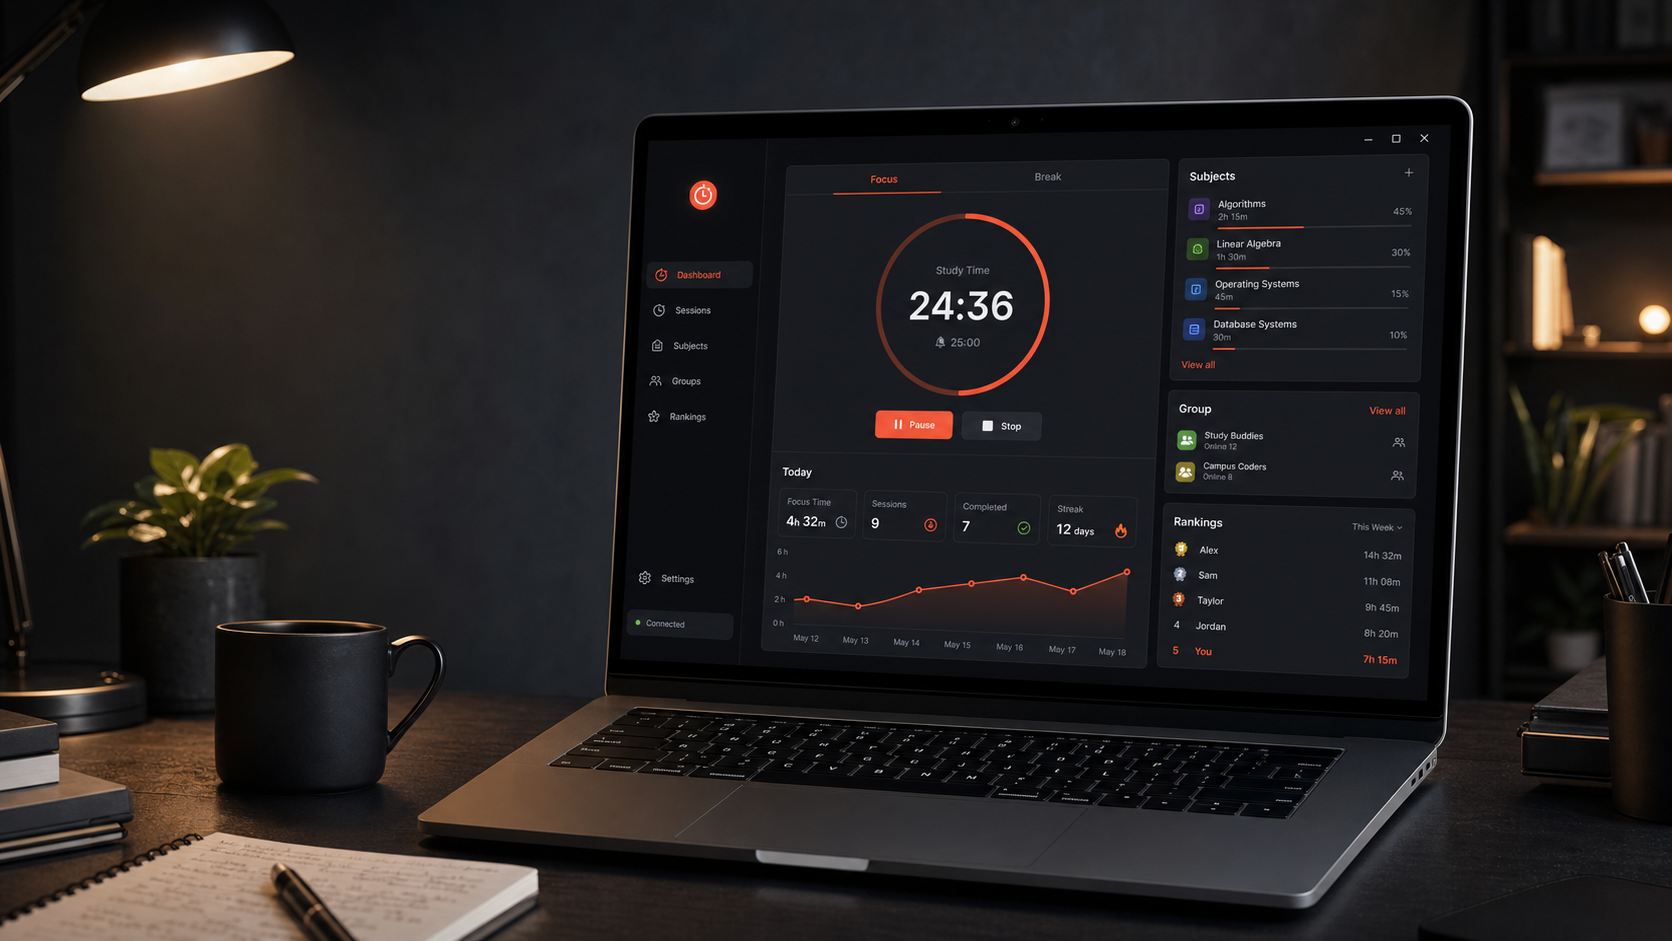
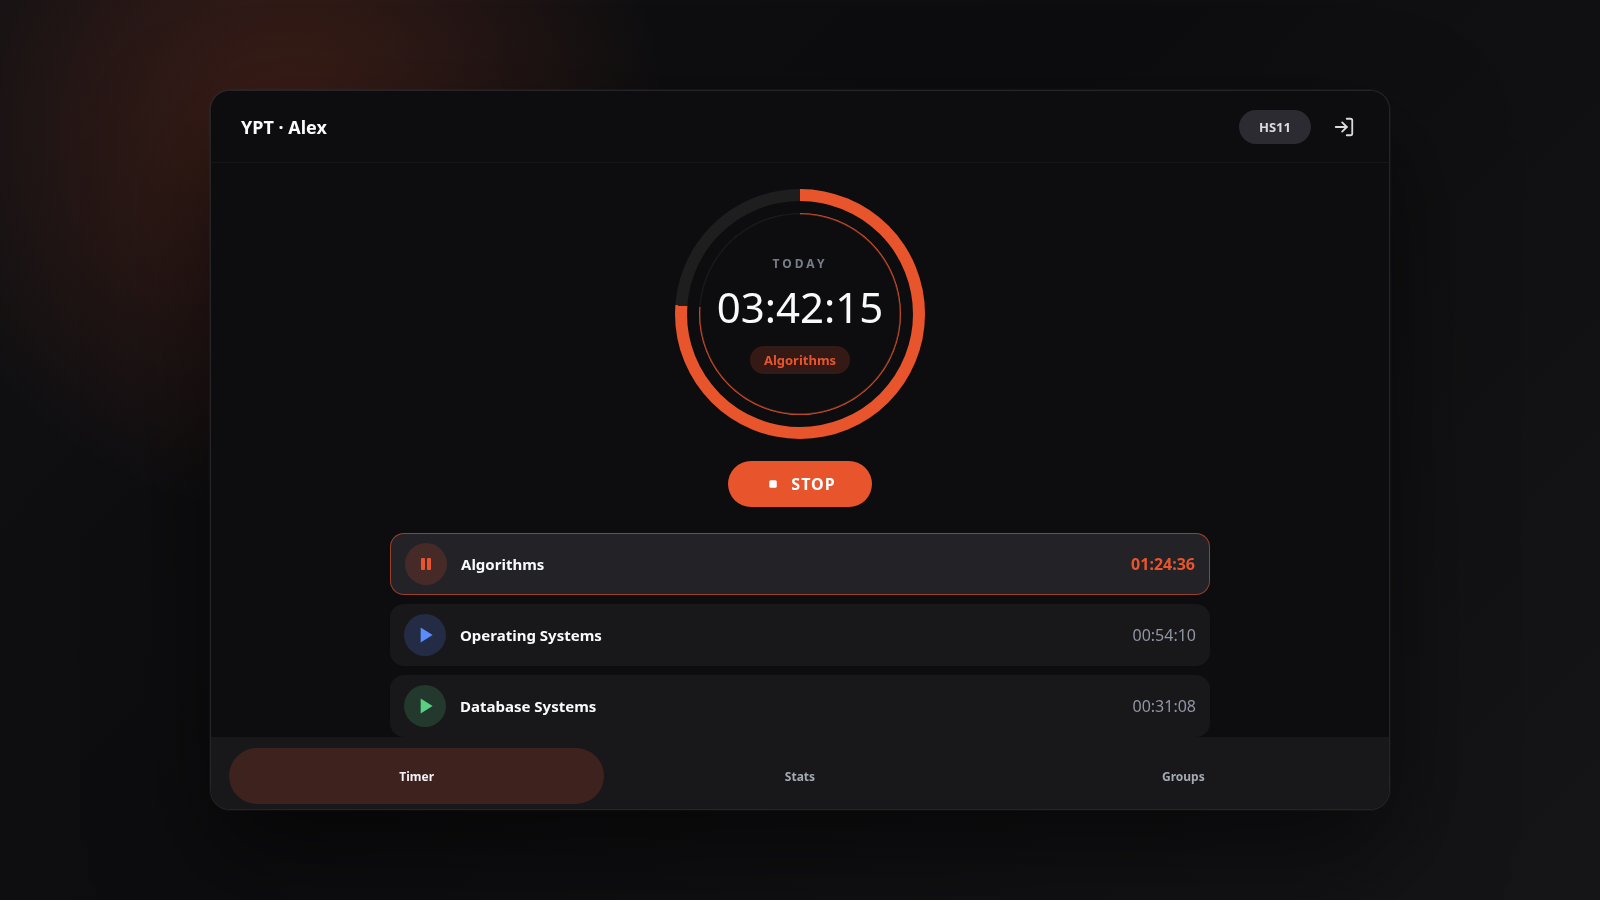
Align landing hero with app UI

diff --git a/web/tools/hero-render.html b/web/tools/hero-render.html
@@ -1,0 +1,337 @@
+<!doctype html>
+<html lang="en">
+  <head>
+    <meta charset="utf-8" />
+    <meta name="viewport" content="width=device-width, initial-scale=1" />
+    <title>YPT Desktop Hero Render</title>
+    <style>
+      :root {
+        --brand: #e8552d;
+        --bg: #0d0d0f;
+        --card: #18181b;
+        --card2: #222227;
+        --text: #f8fafc;
+        --muted: #8f95a3;
+        --line: rgba(255, 255, 255, 0.08);
+      }
+
+      * {
+        box-sizing: border-box;
+      }
+
+      body {
+        width: 1600px;
+        height: 900px;
+        margin: 0;
+        overflow: hidden;
+        background:
+          radial-gradient(circle at 18% 15%, rgba(232, 85, 45, 0.22), transparent 25%),
+          linear-gradient(135deg, #101013 0%, #0d0d0f 44%, #151518 100%);
+        color: var(--text);
+        font-family:
+          Inter, ui-sans-serif, system-ui, -apple-system, BlinkMacSystemFont,
+          "Segoe UI", sans-serif;
+      }
+
+      .stage {
+        width: 100%;
+        height: 100%;
+        display: grid;
+        place-items: center;
+        padding: 70px 86px;
+      }
+
+      .window {
+        width: 1180px;
+        height: 720px;
+        border: 1px solid rgba(255, 255, 255, 0.1);
+        border-radius: 20px;
+        overflow: hidden;
+        background: var(--bg);
+        box-shadow:
+          0 44px 110px rgba(0, 0, 0, 0.55),
+          0 0 0 1px rgba(255, 255, 255, 0.04);
+      }
+
+      .topbar {
+        height: 72px;
+        display: flex;
+        align-items: center;
+        justify-content: space-between;
+        padding: 0 26px 0 30px;
+        background: var(--bg);
+        border-bottom: 1px solid rgba(255, 255, 255, 0.04);
+      }
+
+      .appTitle {
+        font-size: 18px;
+        font-weight: 700;
+      }
+
+      .actions {
+        display: flex;
+        align-items: center;
+        gap: 14px;
+      }
+
+      .chip {
+        min-width: 72px;
+        height: 34px;
+        border-radius: 17px;
+        display: grid;
+        place-items: center;
+        background: #2b2b31;
+        color: #d9dbe2;
+        font-size: 13px;
+        font-weight: 700;
+      }
+
+      .logout {
+        width: 38px;
+        height: 38px;
+        border-radius: 19px;
+        display: grid;
+        place-items: center;
+        color: #d8d9df;
+      }
+
+      .screen {
+        height: calc(100% - 72px);
+        display: grid;
+        grid-template-rows: 1fr 86px;
+      }
+
+      .timerPane {
+        display: grid;
+        grid-template-rows: auto auto 1fr;
+        justify-items: center;
+        padding-top: 26px;
+      }
+
+      .ring {
+        width: 250px;
+        height: 250px;
+        border-radius: 50%;
+        display: grid;
+        place-items: center;
+        background:
+          radial-gradient(circle, var(--bg) 56%, transparent 57%),
+          conic-gradient(var(--brand) 0deg 274deg, rgba(255, 255, 255, 0.07) 274deg 360deg);
+        position: relative;
+      }
+
+      .ring::after {
+        content: "";
+        position: absolute;
+        inset: 12px;
+        border-radius: 50%;
+        border: 12px solid var(--bg);
+      }
+
+      .ringInner {
+        position: relative;
+        z-index: 1;
+        text-align: center;
+      }
+
+      .label {
+        margin-bottom: 6px;
+        color: #777d8a;
+        font-size: 12px;
+        font-weight: 700;
+        letter-spacing: 3px;
+      }
+
+      .time {
+        font-variant-numeric: tabular-nums;
+        font-size: 42px;
+        font-weight: 300;
+      }
+
+      .subjectPill {
+        display: inline-flex;
+        align-items: center;
+        justify-content: center;
+        margin-top: 11px;
+        padding: 5px 14px;
+        border-radius: 999px;
+        background: rgba(232, 85, 45, 0.18);
+        color: var(--brand);
+        font-size: 13px;
+        font-weight: 800;
+      }
+
+      .stopButton {
+        margin-top: 22px;
+        height: 46px;
+        display: inline-flex;
+        align-items: center;
+        gap: 9px;
+        border-radius: 999px;
+        padding: 0 36px;
+        background: var(--brand);
+        color: white;
+        font-weight: 900;
+        letter-spacing: 1px;
+      }
+
+      .subjects {
+        width: min(820px, calc(100% - 64px));
+        align-self: stretch;
+        display: grid;
+        gap: 9px;
+        margin-top: 26px;
+      }
+
+      .subject {
+        height: 62px;
+        display: grid;
+        grid-template-columns: 42px 1fr auto;
+        align-items: center;
+        gap: 14px;
+        border-radius: 14px;
+        padding: 0 14px;
+        background: var(--card);
+      }
+
+      .subject.active {
+        background: var(--card2);
+        border: 1.4px solid rgba(232, 85, 45, 0.6);
+      }
+
+      .play {
+        width: 42px;
+        height: 42px;
+        border-radius: 50%;
+        display: grid;
+        place-items: center;
+        background: rgba(232, 85, 45, 0.18);
+        color: var(--brand);
+      }
+
+      .subject:nth-child(2) .play {
+        background: rgba(90, 139, 255, 0.18);
+        color: #5a8bff;
+      }
+
+      .subject:nth-child(3) .play {
+        background: rgba(88, 208, 130, 0.18);
+        color: #58d082;
+      }
+
+      .subjectName {
+        font-size: 15px;
+        font-weight: 700;
+      }
+
+      .subjectTime {
+        color: var(--muted);
+        font-variant-numeric: tabular-nums;
+      }
+
+      .subject.active .subjectTime {
+        color: var(--brand);
+        font-weight: 800;
+      }
+
+      .nav {
+        display: grid;
+        grid-template-columns: repeat(3, 1fr);
+        gap: 8px;
+        align-items: center;
+        padding: 10px 18px 18px;
+        background: var(--card);
+      }
+
+      .navItem {
+        height: 56px;
+        display: grid;
+        place-items: center;
+        color: #a5a9b4;
+        font-size: 12px;
+        font-weight: 800;
+      }
+
+      .navItem.active {
+        border-radius: 28px;
+        background: rgba(232, 85, 45, 0.18);
+        color: #f1f2f5;
+      }
+
+      svg {
+        display: block;
+      }
+    </style>
+  </head>
+  <body>
+    <div class="stage">
+      <div class="window">
+        <div class="topbar">
+          <div class="appTitle">YPT · Alex</div>
+          <div class="actions">
+            <div class="chip">HS11</div>
+            <div class="logout" aria-hidden="true">
+              <svg width="22" height="22" viewBox="0 0 24 24" fill="none">
+                <path d="M15 3h4a2 2 0 0 1 2 2v14a2 2 0 0 1-2 2h-4" stroke="currentColor" stroke-width="2" stroke-linecap="round" />
+                <path d="m10 17 5-5-5-5" stroke="currentColor" stroke-width="2" stroke-linecap="round" stroke-linejoin="round" />
+                <path d="M15 12H3" stroke="currentColor" stroke-width="2" stroke-linecap="round" />
+              </svg>
+            </div>
+          </div>
+        </div>
+        <div class="screen">
+          <div class="timerPane">
+            <div class="ring">
+              <div class="ringInner">
+                <div class="label">TODAY</div>
+                <div class="time">03:42:15</div>
+                <div class="subjectPill">Algorithms</div>
+              </div>
+            </div>
+            <div class="stopButton">
+              <svg width="18" height="18" viewBox="0 0 24 24" fill="currentColor">
+                <rect x="7" y="7" width="10" height="10" rx="2" />
+              </svg>
+              STOP
+            </div>
+            <div class="subjects">
+              <div class="subject active">
+                <div class="play">
+                  <svg width="24" height="24" viewBox="0 0 24 24" fill="currentColor">
+                    <rect x="7" y="6" width="4" height="12" rx="1" />
+                    <rect x="13" y="6" width="4" height="12" rx="1" />
+                  </svg>
+                </div>
+                <div class="subjectName">Algorithms</div>
+                <div class="subjectTime">01:24:36</div>
+              </div>
+              <div class="subject">
+                <div class="play">
+                  <svg width="26" height="26" viewBox="0 0 24 24" fill="currentColor">
+                    <path d="M8 5v14l11-7z" />
+                  </svg>
+                </div>
+                <div class="subjectName">Operating Systems</div>
+                <div class="subjectTime">00:54:10</div>
+              </div>
+              <div class="subject">
+                <div class="play">
+                  <svg width="26" height="26" viewBox="0 0 24 24" fill="currentColor">
+                    <path d="M8 5v14l11-7z" />
+                  </svg>
+                </div>
+                <div class="subjectName">Database Systems</div>
+                <div class="subjectTime">00:31:08</div>
+              </div>
+            </div>
+          </div>
+          <div class="nav">
+            <div class="navItem active">Timer</div>
+            <div class="navItem">Stats</div>
+            <div class="navItem">Groups</div>
+          </div>
+        </div>
+      </div>
+    </div>
+  </body>
+</html>

diff --git a/web/README.md b/web/README.md
@@ -17,3 +17,9 @@ npm run build
 
 The build exports static files to `out/`. The repository workflow deploys that
 folder to GitHub Pages when files under `web/` change on `main`.
+
+## Hero Asset
+
+`public/hero-dashboard.png` is rendered from `tools/hero-render.html` so the
+landing page shows an app-like screen that matches the Flutter desktop UI
+instead of a generic generated dashboard.
